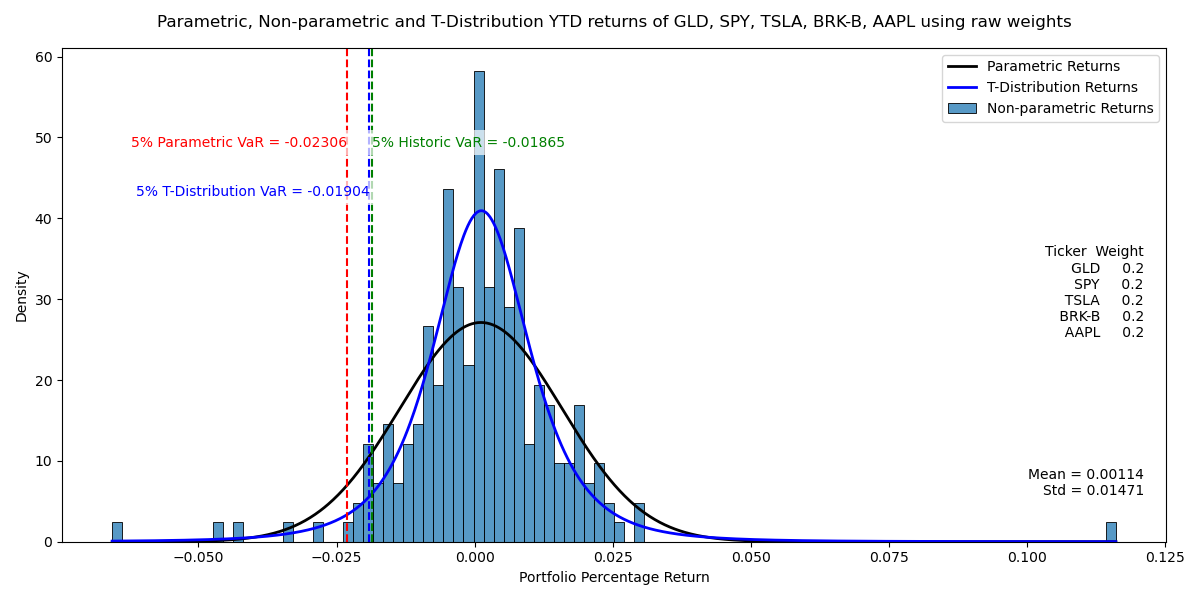
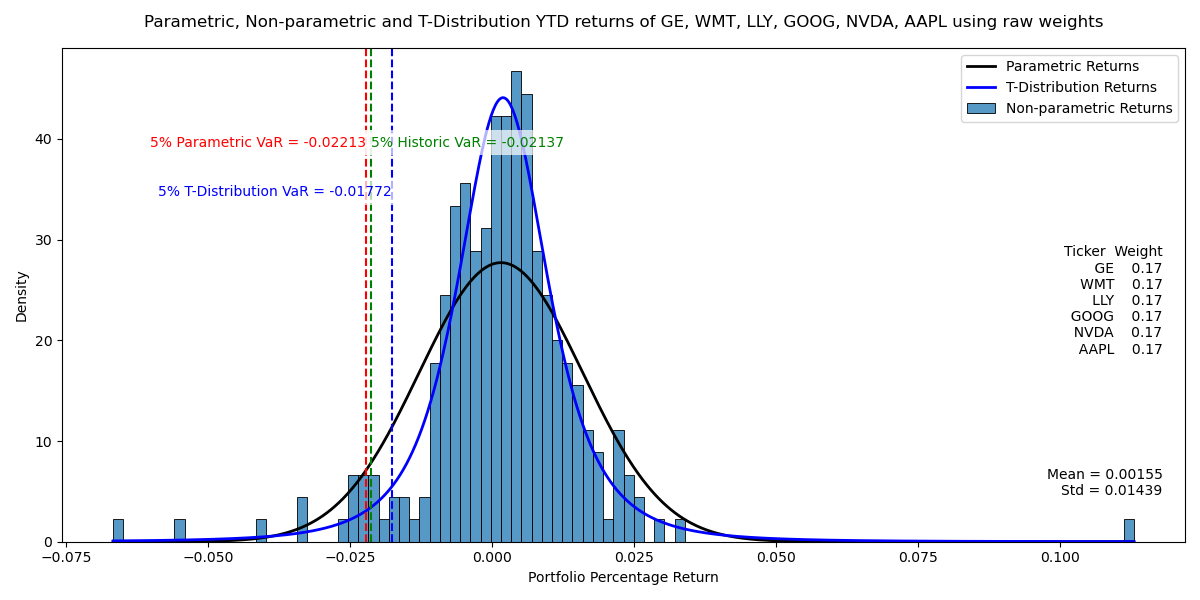
UI function

diff --git a/run_var_report.py b/run_var_report.py
@@ -1,0 +1,223 @@
+import os
+import sys
+import datetime as dt
+import pandas as pd
+
+from SCRIPTS import data_methods as dm
+from SCRIPTS import stat_methods as sm
+
+
+def ask(prompt: str, default: str | None = None) -> str:
+    if default is None:
+        return input(f"{prompt}: ").strip()
+    val = input(f"{prompt} [{default}]: ").strip()
+    return val if val else default
+
+
+def yesno(s: str) -> bool:
+    return s.strip().lower() in {"y", "yes", "true", "1"}
+
+
+def parse_date(s: str) -> str:
+    try:
+        dt.datetime.strptime(s, "%Y-%m-%d")
+        return s
+    except ValueError:
+        raise ValueError("Date must be in YYYY-MM-DD format (e.g., 2025-01-22).")
+
+
+def parse_tickers(s: str) -> list[str]:
+    tickers = [x.strip().upper() for x in s.split(",") if x.strip()]
+    if not tickers:
+        raise ValueError("Please provide at least 1 ticker.")
+    return tickers
+
+
+def parse_weights(weights_str: str, n: int) -> list[float]:
+    """
+    If weights_str empty -> equal weights.
+    Else parse comma-separated floats, normalise to sum=1, validate length.
+    """
+    if not weights_str.strip():
+        return [1.0 / n] * n
+
+    parts = [p.strip() for p in weights_str.split(",") if p.strip()]
+    weights = [float(p) for p in parts]
+
+    if len(weights) != n:
+        raise ValueError(f"Number of weights ({len(weights)}) must match number of tickers ({n}).")
+
+    if any(w < 0 for w in weights):
+        raise ValueError("Weights must be non-negative.")
+
+    s = sum(weights)
+    if s <= 0:
+        raise ValueError("Weights must sum to a positive number.")
+
+    return [w / s for w in weights]
+
+
+def ensure_dir(path: str) -> None:
+    os.makedirs(path, exist_ok=True)
+
+
+def get_tiingo_token(user_entry: str) -> str:
+    """
+    Priority:
+    1) User typed it
+    2) Env var TIINGO_API_TOKEN
+    3) Env var API_TOKEN
+    """
+    if user_entry.strip():
+        return user_entry.strip()
+
+    token = os.environ.get("TIINGO_API_TOKEN", "").strip()
+    if token:
+        return token
+
+    token = os.environ.get("API_TOKEN", "").strip()
+    if token:
+        return token
+
+    raise ValueError(
+        "No Tiingo API token provided.\n"
+        "Either paste it when prompted, or set environment variable TIINGO_API_TOKEN."
+    )
+
+
+def main():
+    print("\n=== VaR Risk Lab — Interactive Report Generator (Tiingo Live) ===\n")
+
+    # Output folder (NEW)
+    OUTPUT_DIR = "OUTPUT"
+    ensure_dir(OUTPUT_DIR)
+
+    tickers = parse_tickers(ask("Enter tickers (comma-separated)", "AAPL,NVDA,GOOG,LLY,WMT,GE"))
+    start_date = parse_date(ask("Start date (YYYY-MM-DD)", "2023-01-01"))
+    end_date = parse_date(ask("End date (YYYY-MM-DD)", str(dt.date.today())))
+    test_date = parse_date(ask("Backtest start date / train-test split (YYYY-MM-DD)", "2025-01-01"))
+
+    confidence_str = ask("VaR confidence level (e.g., 95 for 95%)", "95")
+    try:
+        confidence = float(confidence_str)
+        if not (0 < confidence < 100):
+            raise ValueError
+    except ValueError:
+        print("Confidence must be a number between 0 and 100 (exclusive).")
+        sys.exit(1)
+
+    run_optim = yesno(ask("Run min-variance optimisation? (y/n)", "y"))
+    run_backtest = yesno(ask("Run backtests + zoning? (y/n)", "y"))
+
+    weights_str = ask("Enter RAW weights (comma-separated) or press Enter for equal weights", "")
+    weights_raw = parse_weights(weights_str, len(tickers))
+
+    token_entry = ask("Tiingo API token (or leave blank to use env var TIINGO_API_TOKEN)", "")
+    api_token = get_tiingo_token(token_entry)
+
+    print("\n[1/5] Pulling LIVE data from Tiingo...")
+    try:
+        data = dm.get_data(tickers, start_date, end_date, api_token)
+    except Exception as e:
+        print("\n❌ Tiingo fetch failed.")
+        print("Common causes: unsupported ticker symbol in Tiingo, rate limits, or network issues.")
+        print(f"Details: {e}")
+        sys.exit(1)
+
+    if data.empty:
+        print("\n❌ Tiingo returned empty data for the selected tickers/date range.")
+        sys.exit(1)
+
+    data.index = pd.to_datetime(data.index)
+    data = data.sort_index()
+    returns = data.pct_change().dropna()
+
+    print("[2/5] Preparing train/test split...")
+    data_train = data[data.index < test_date]
+    returns_train = data_train.pct_change().dropna()
+
+    if returns_train.empty:
+        print("\n❌ Training set is empty. Choose an earlier backtest start date (test_date).")
+        sys.exit(1)
+
+    cov = returns_train.cov().to_numpy()
+
+    if run_optim:
+        print("[3/5] Optimising min-variance weights (SLSQP, long-only, sum=1)...")
+        weights_opt, _ = sm.min_portfolio_variance(cov, len(tickers))
+    else:
+        weights_opt = weights_raw
+
+    print("[4/5] Computing VaR on test period...")
+    data_test = data[data.index >= test_date]
+    returns_test = data_test.pct_change().dropna()
+
+    if returns_test.empty:
+        print("\n❌ Test set is empty. Choose an earlier end date or earlier test_date.")
+        sys.exit(1)
+
+    raw_h, raw_p, raw_t = sm.calculate_var(returns_test.dot(weights_raw), confidence=confidence / 100)
+    opt_h, opt_p, opt_t = sm.calculate_var(returns_test.dot(weights_opt), confidence=confidence / 100)
+
+    print("[5/5] Generating distribution plots...")
+    raw_img_path = os.path.join(OUTPUT_DIR, "portfolio_raw_plot.png")
+    opt_img_path = os.path.join(OUTPUT_DIR, "portfolio_optimised_plot.png")
+    sm.varplots(returns_test, weights_raw, "raw", raw_img_path, tickers)
+    sm.varplots(returns_test, weights_opt, "optimised", opt_img_path, tickers)
+
+    var_report_df = None
+    if run_backtest:
+        raw_exc_pct, raw_ann = sm.parametric_backtest(returns, weights_raw)
+        opt_exc_pct, opt_ann = sm.parametric_backtest(returns, weights_opt)
+
+        t_raw_exc_pct, t_raw_ann = sm.t_backtest(returns, weights_raw)
+        t_opt_exc_pct, t_opt_ann = sm.t_backtest(returns, weights_opt)
+
+        var_report_df = pd.DataFrame({
+            "Model": ["Parametric", "T-dist", "Parametric", "T-dist"],
+            "Portfolio": ["Raw", "Raw", "Optimised", "Optimised"],
+            "Exception %": [raw_exc_pct, t_raw_exc_pct, opt_exc_pct, t_opt_exc_pct],
+            "Annual exceptions": [raw_ann, t_raw_ann, opt_ann, t_opt_ann],
+            "Zone": [
+                sm.classify_zone(raw_ann),
+                sm.classify_zone(t_raw_ann),
+                sm.classify_zone(opt_ann),
+                sm.classify_zone(t_opt_ann),
+            ],
+        })
+
+    print(f"\nWriting CSV outputs to {OUTPUT_DIR}/ ...")
+
+    weights_df = pd.DataFrame({
+        "Ticker": tickers,
+        "Raw weight": weights_raw,
+        "Optimised weight": weights_opt,
+    })
+    weights_csv = os.path.join(OUTPUT_DIR, "weights.csv")
+    weights_df.to_csv(weights_csv, index=False)
+
+    var_summary_df = pd.DataFrame({
+        "Method": ["Historical (5%)", "Parametric Normal (5%)", "T-distribution (5%)"],
+        "Raw VaR": [raw_h, raw_p, raw_t],
+        "Optimised VaR": [opt_h, opt_p, opt_t],
+    })
+    var_summary_csv = os.path.join(OUTPUT_DIR, "var_summary.csv")
+    var_summary_df.to_csv(var_summary_csv, index=False)
+
+    var_report_csv = None
+    if var_report_df is not None:
+        var_report_csv = os.path.join(OUTPUT_DIR, "var_report.csv")
+        var_report_df.to_csv(var_report_csv, index=False)
+
+    print("✅ Outputs written:")
+    print(f" - {weights_csv}")
+    print(f" - {var_summary_csv}")
+    if var_report_csv:
+        print(f" - {var_report_csv}")
+
+    print(f"Plots saved: {raw_img_path}, {opt_img_path}")
+    print("\n✅ Done.\n")
+
+
+if __name__ == "__main__":
+    main()

diff --git a/SCRIPTS/data_methods.py b/SCRIPTS/data_methods.py
@@ -22,7 +22,7 @@ def api_request(ticker, startDate, endDate, token):
 def get_data(tickers, startDate, endDate, token):
     api_success = True
     data = pd.DataFrame()
-    backup_data_df=pd.read_csv("DATA/stockdata_backup.csv", parse_dates=['date'],usecols=['date',*tickers]).set_index('date')
+    backup_data_df = pd.read_csv("DATA/stockdata_backup.csv", parse_dates=['date']).set_index('date')
     for ticker in tickers:
         temp_data = api_request(ticker, startDate, endDate, token)
         if temp_data is not None:

diff --git a/SCRIPTS/stat_methods.py b/SCRIPTS/stat_methods.py
@@ -138,5 +138,5 @@ def calculate_var(returns, confidence=0.95):
     std = returns.std()
     parametric_var = mean - 1.645 * std
     nu, loc, scale=t.fit(returns)
-    t_var=loc + t.ppf(0.05, nu )* std
+    t_var=loc + t.ppf(0.05, nu )* scale
     return historical_var, parametric_var, t_var
